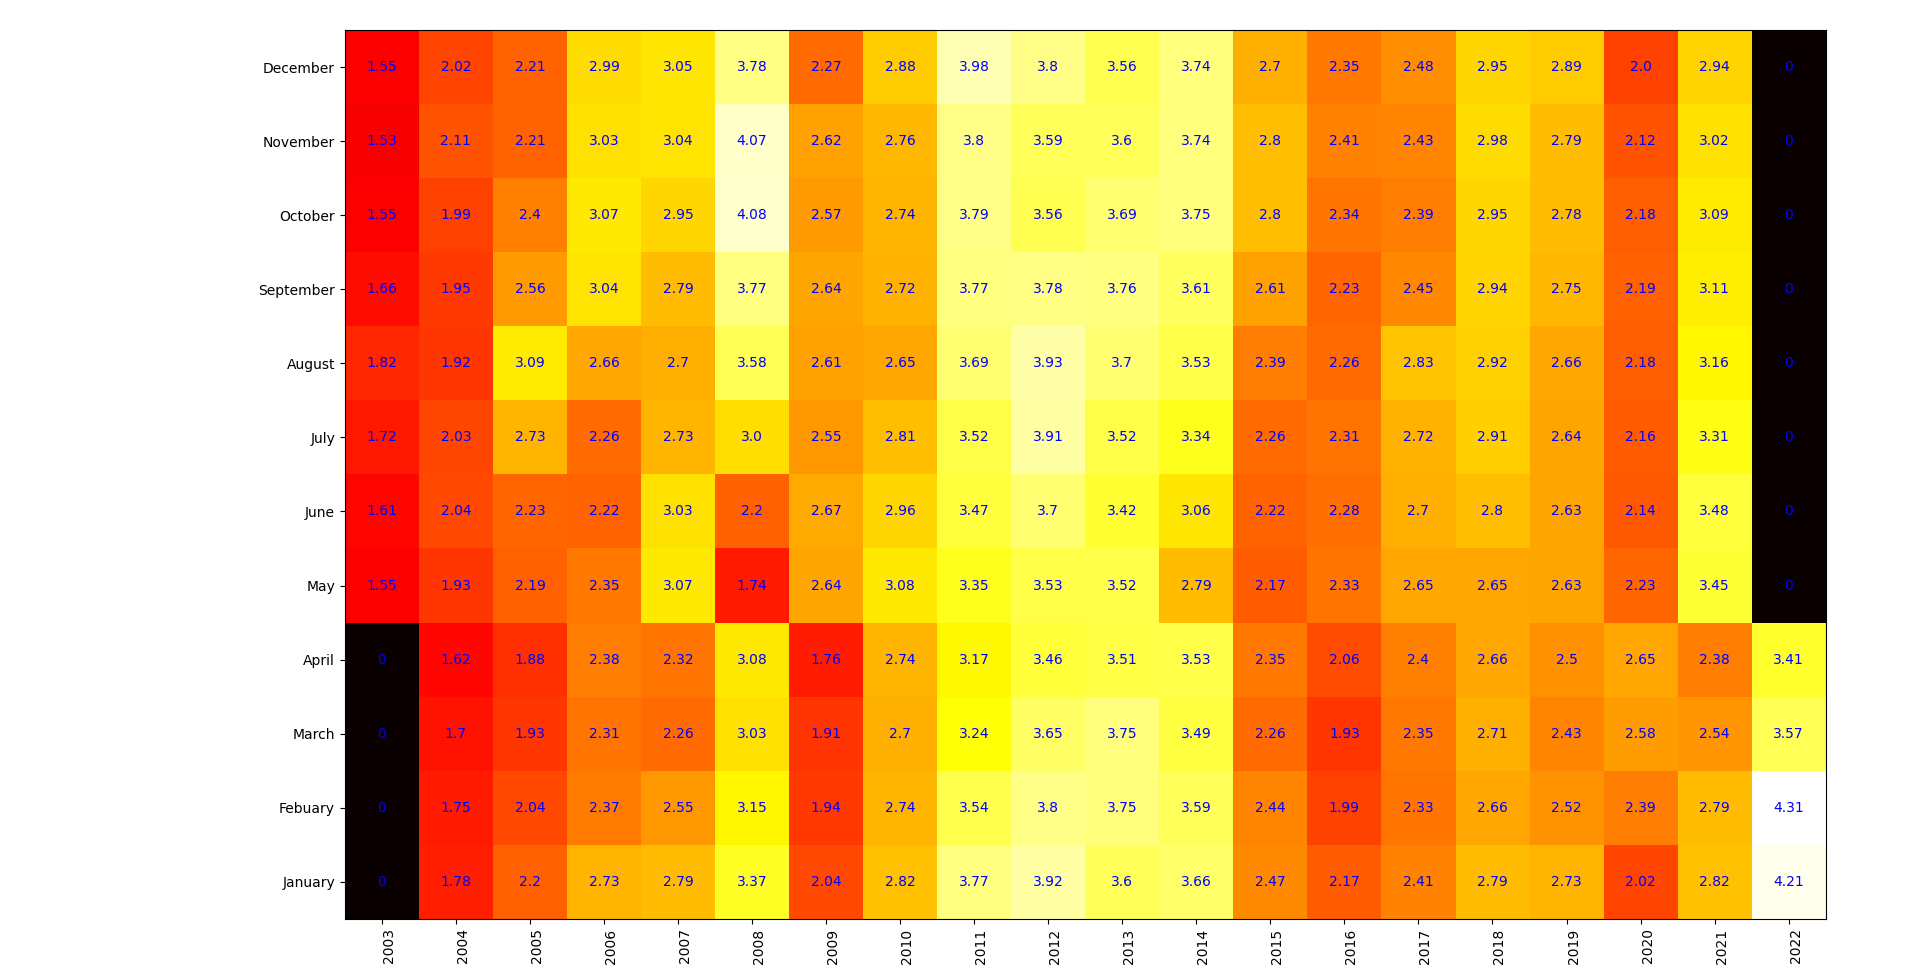
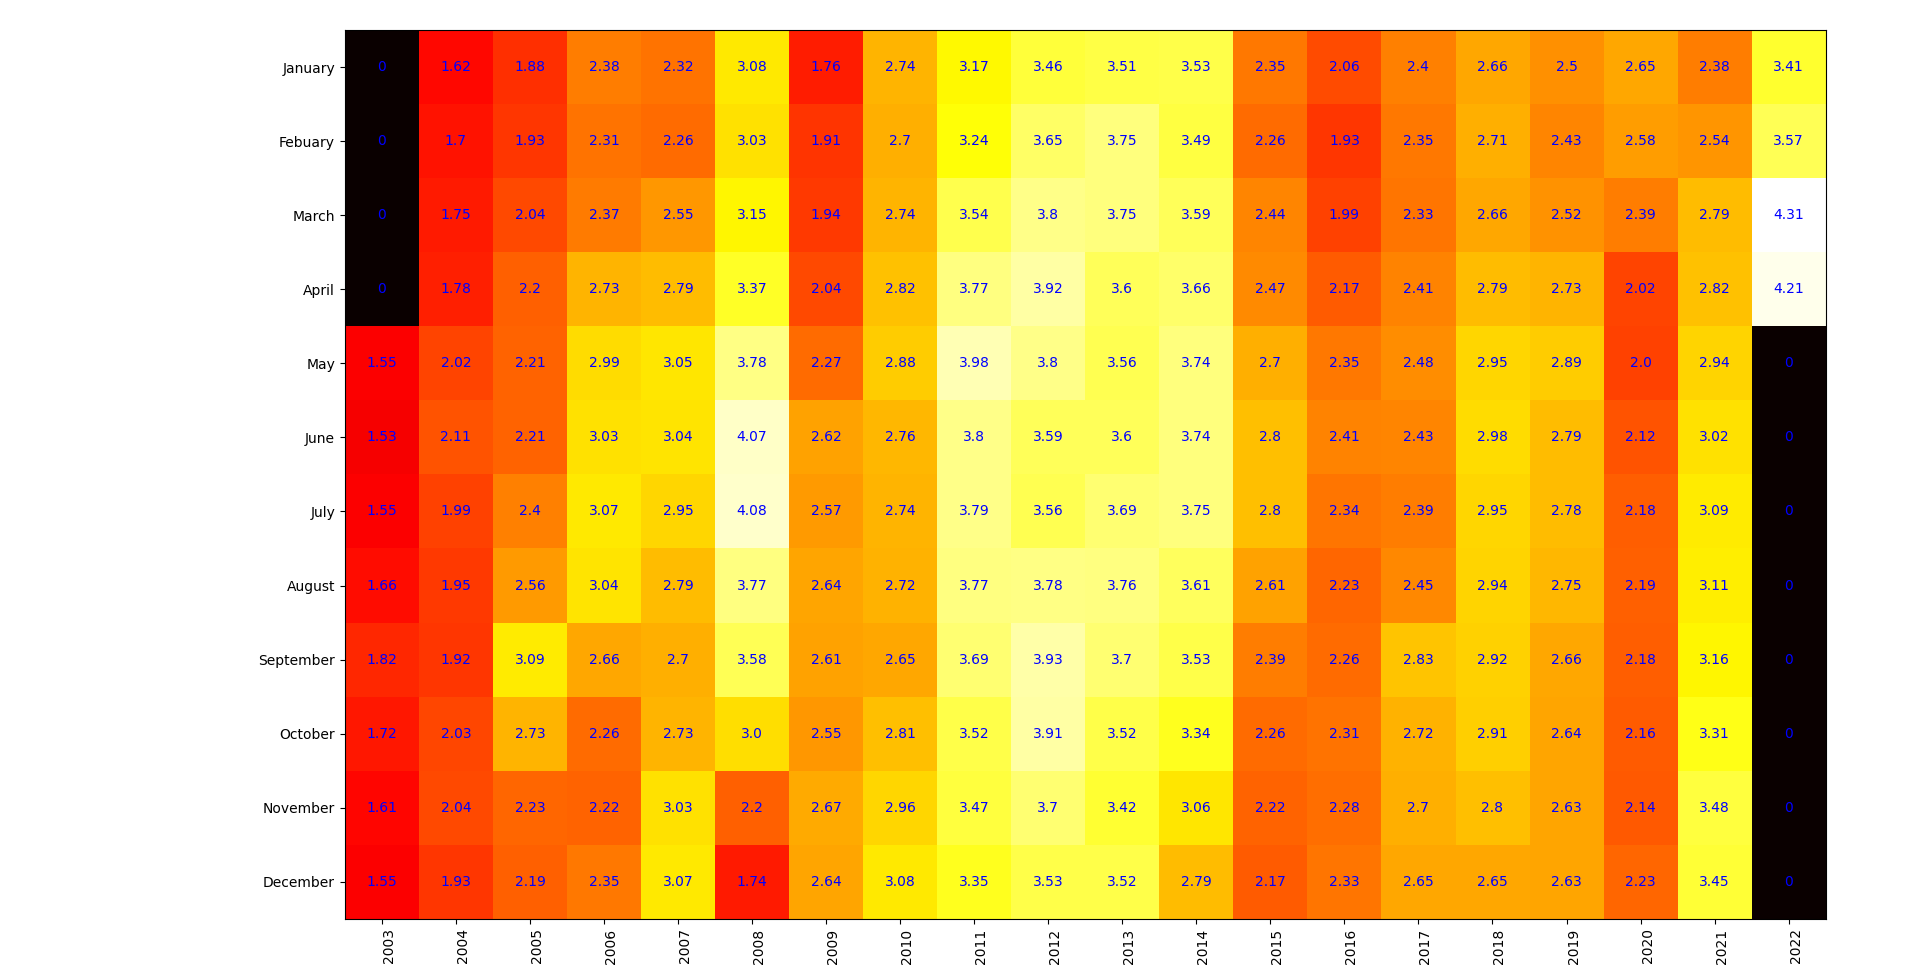
Fixed issue where info was being displayed improperly

diff --git a/getInfo.py b/getInfo.py
@@ -44,11 +44,13 @@ def plot_weekly_data(dataframe):
     plt.show()
 
 def plot_weekly_heatmap(df: pd.DataFrame):
+    print(df)
     years = df['year'].unique()
     months = df['month'].unique()
     months_label = ['January', 'Febuary', 'March', 'April', 'May', 'June', 'July', 'August', 'September', 'October', 'November', 'December']
+    months_label_abr = ['Jan', 'Feb', 'Mar', 'Apr', 'May', 'Jun', 'Jul', 'Aug', 'Sep', 'Oct', 'Nov', 'Dec']
     new_list = []
-    for month in months:
+    for month in months_label_abr:
         month_list = []
         for year in years:
             #print(df['average'].loc[(df['month'] == month) & (df['year'] == year)])
@@ -65,7 +67,7 @@ def plot_weekly_heatmap(df: pd.DataFrame):
     fig, ax = plt.subplots()
     im = ax.imshow(new_list, cmap=cmap.hot)
 
-    ax.set_yticks(np.arange(len(months)), labels=reversed(months_label))
+    ax.set_yticks(np.arange(len(months)), labels=months_label)
     ax.set_xticks(np.arange(len(years)), labels=years)
 
     plt.setp(ax.get_xticklabels(), rotation=90, ha='right', rotation_mode='anchor')
